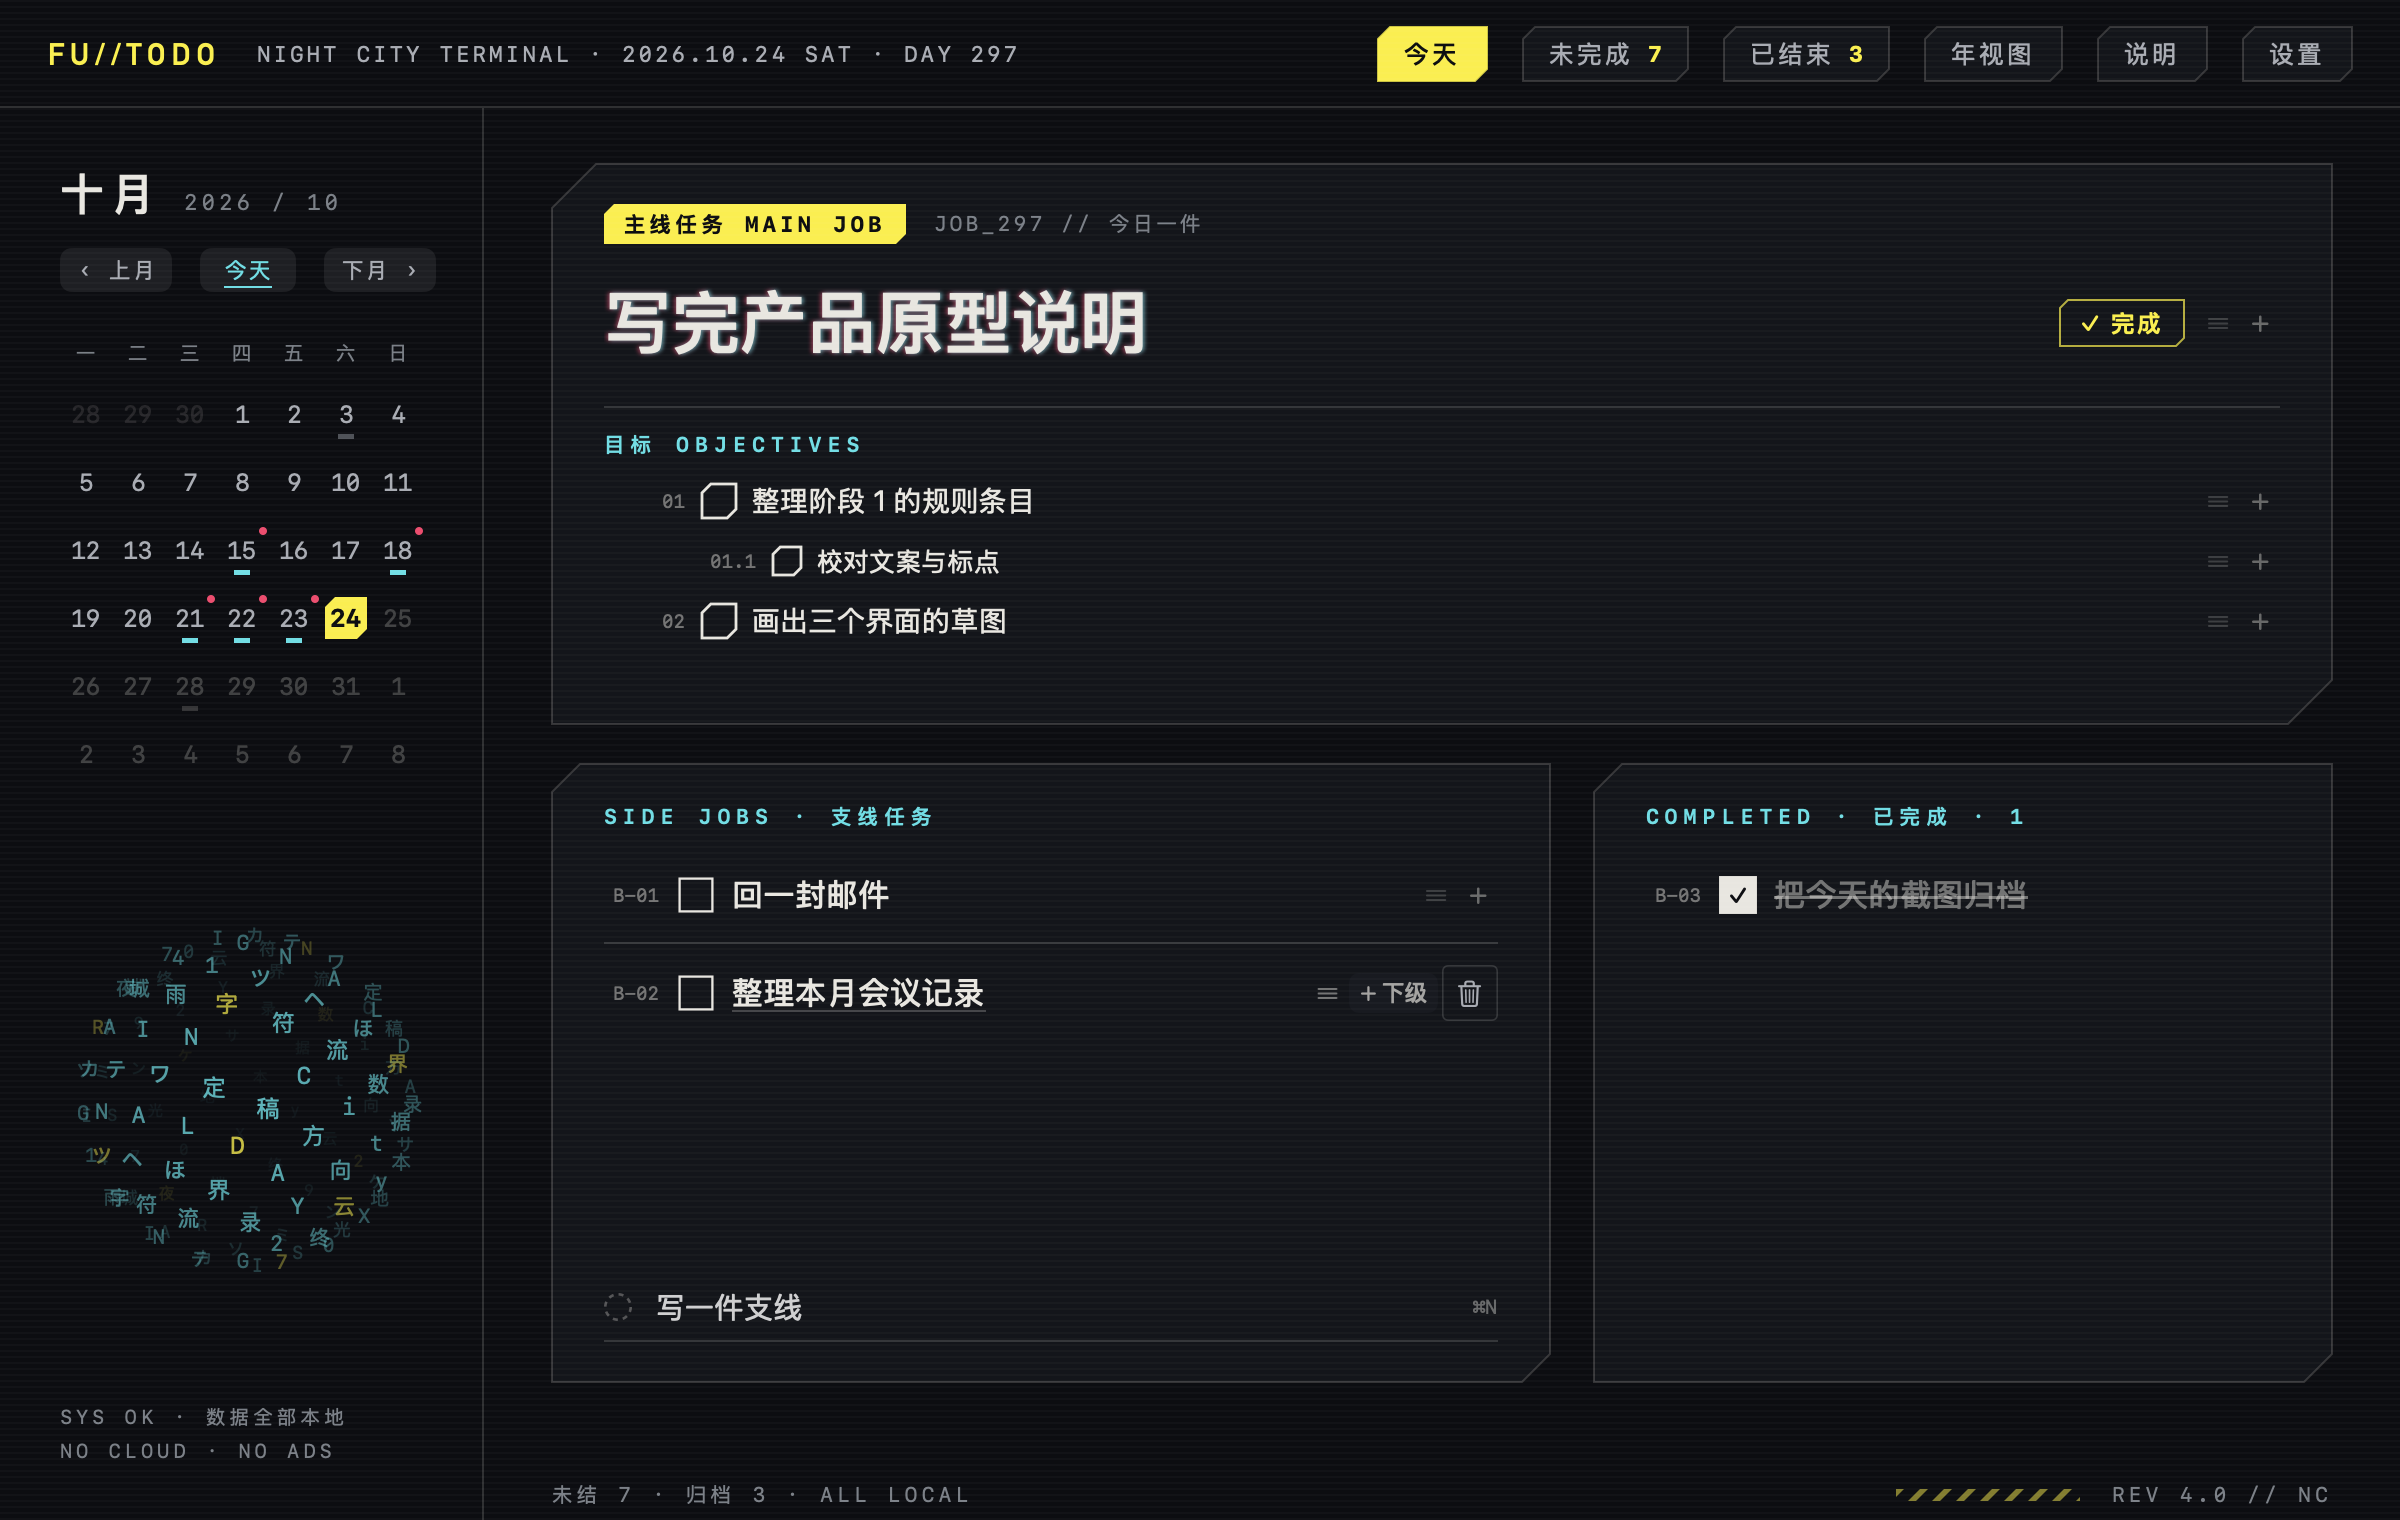
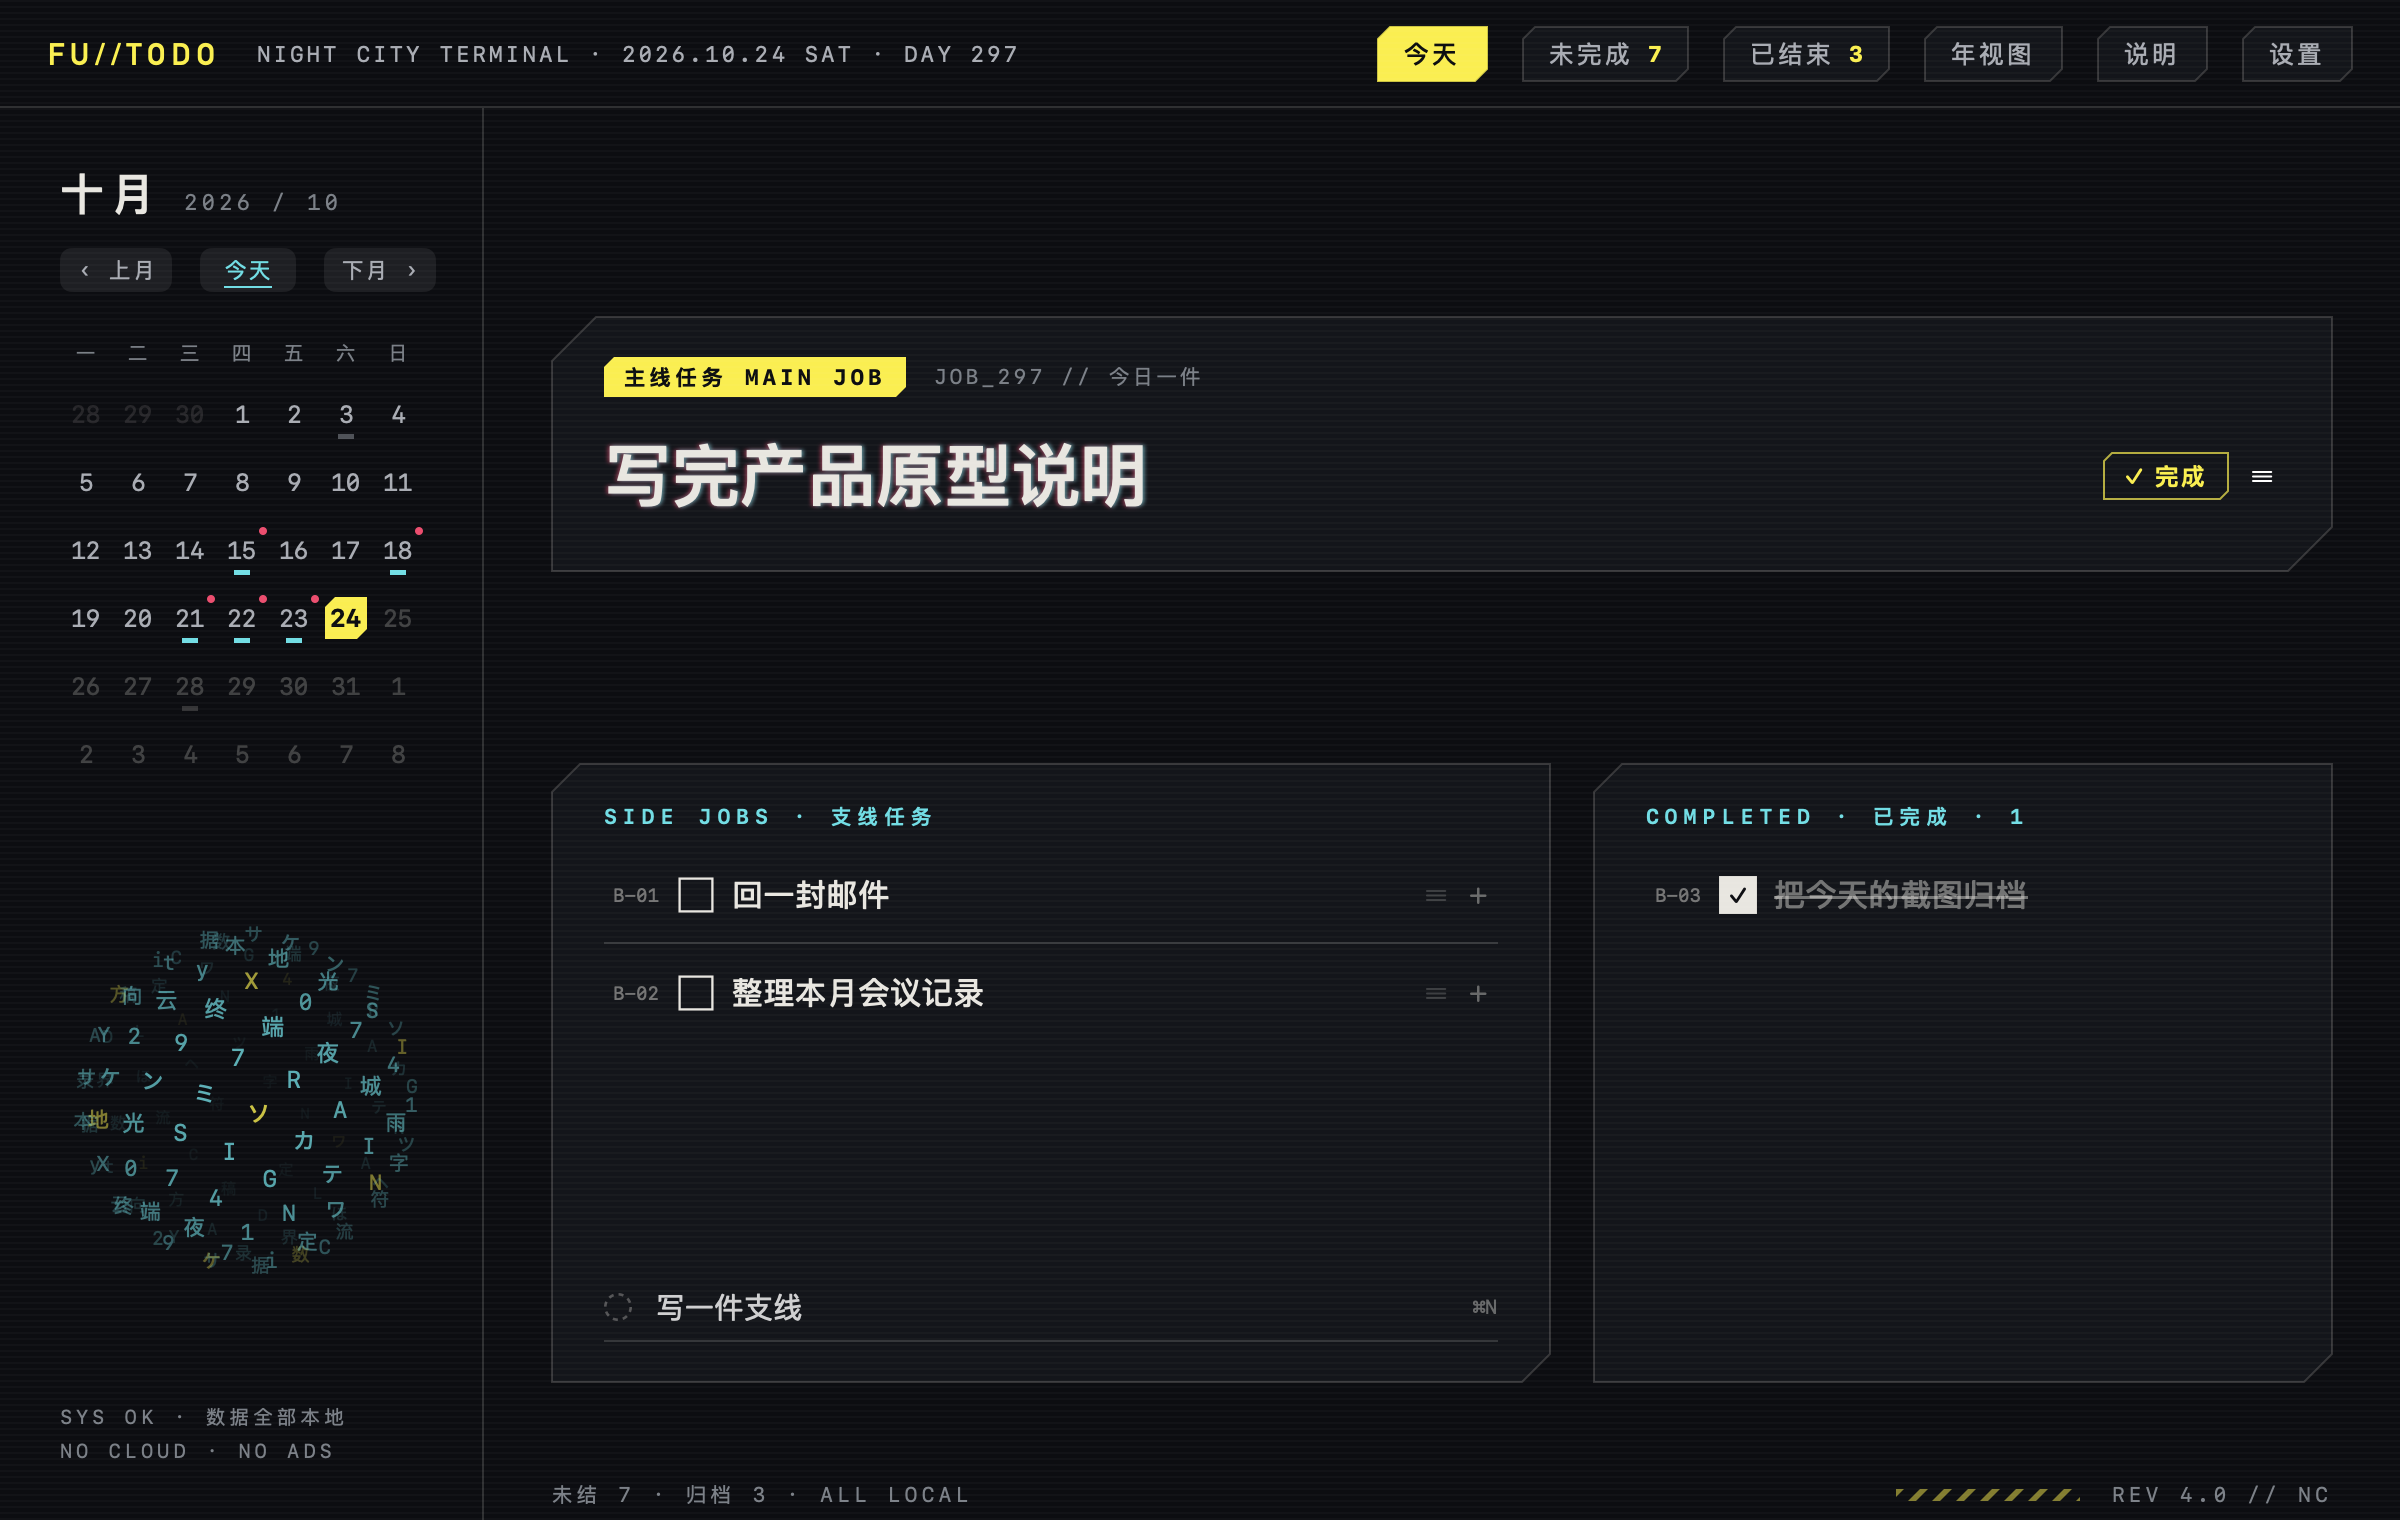
主线改为纯标题槽：面板去掉目标区（高度包住内容），主线行隐藏＋下级/兜底＋、拒绝拖拽嵌套进主线；省出的高度给支线/已完成面板；夜之城整页点空白收输入会话

diff --git a/app/Sources/UI/DayPageView.swift b/app/Sources/UI/DayPageView.swift
@@ -67,6 +67,10 @@ public struct DayPageView: View {
                 // 夜之城：整页固定视口（不滚动），滚动只发生在三个面板内部
                 nightLayout
                     .frame(maxHeight: .infinity, alignment: .top)
+                    .contentShape(Rectangle())
+                    .onTapGesture {
+                        if drag.draggingId == nil { session.finishByClickingAway(store: store) }
+                    }
             } else {
                 VStack(alignment: .leading, spacing: 0) {
                     header
@@ -351,8 +355,7 @@ public struct DayPageView: View {
                     text: $mainDraft,
                     placeholder: isToday ? "写下今天最重要的一件事" : "写下这一天最重要的事",
                     prominent: true,
-                    commit: { let m = store.addMain(mainDraft, on: day); mainDraft = "" },
-                    onTab: commitMainContinue
+                    commit: { let m = store.addMain(mainDraft, on: day); mainDraft = "" }
                 )
                 .padding(.top, 18)
                 if !roots.isEmpty {
@@ -368,8 +371,8 @@ public struct DayPageView: View {
 
     // MARK: 夜之城三面板
 
-    /// 主线任务面板（22pt 大切角）：黄标签 + JOB 码 + DIN 标题 + 目标列表。
-    /// 主线不配勾选框——完成用行尾的「完成」按钮；完成后留在面板里标「今日主线已完成」。
+    /// 主线任务面板（22pt 大切角）：只有标题槽——主线没有二级，
+    /// 二级只存在于支线与已完成面板。完成/退回走行尾按钮。
     @ViewBuilder
     private var nightMainPanel: some View {
         NightPanel(corner: 22) {
@@ -379,54 +382,37 @@ public struct DayPageView: View {
                 } else {
                     nightQuestHeader
                 }
-                ScrollView {
-                    VStack(alignment: .leading, spacing: 0) {
-                        if let goal = mainAny {
-                            draggableCard(goal, at: 0, in: [goal]) {
-                                VStack(alignment: .leading, spacing: 0) {
-                                    TaskRowView(
-                                        task: goal,
-                                        level: 1,
-                                        isMain: true,
-                                        showsRoleGlyph: false,
-                                        onCard: true,
-                                        showsFolio: false,
-                                        showsRing: false,
-                                        mainCompleteAction: goal.done ? nil : { store.complete(goal.id) },
-                                        mainRevertAction: goal.done ? { store.revert(goal.id) } : nil
-                                    )
-                                    .padding(.top, 10)
-                                    if !collapseCards {
-                                        // 主线下方的横线：把它衬成「这一天的主题」，而不是一条任务
-                                        Rectangle().fill(Theme.rule).frame(height: 1).padding(.top, 14)
-                                        objectivesLabel
-                                            .padding(.top, 12)
-                                        TaskSubtreeView(parentId: goal.id, level: 2, showsRails: false, showsRoleGlyph: false, onCard: true, showsFolio: true)
-                                    }
-                                }
-                            }
-                            rootDropZone
-                        } else {
-                            writingLine(
-                                text: $mainDraft,
-                                placeholder: isToday ? "写下今天最重要的一件事" : "写下这一天最重要的事",
-                                prominent: true,
-                                commit: { let m = store.addMain(mainDraft, on: day); mainDraft = "" },
-                                onTab: commitMainContinue
-                            )
-                            .padding(.top, 12)
-                            if !roots.isEmpty {
-                                Text("NO MAIN JOB · 今天还没有主线")
-                                    .font(Theme.mono(9))
-                                    .tracking(1.5)
-                                    .foregroundStyle(Theme.ink3)
-                                    .padding(.top, 10)
-                            }
-                        }
+                if let goal = mainAny {
+                    draggableCard(goal, at: 0, in: [goal]) {
+                        TaskRowView(
+                            task: goal,
+                            level: 1,
+                            isMain: true,
+                            showsRoleGlyph: false,
+                            onCard: true,
+                            showsFolio: false,
+                            showsRing: false,
+                            mainCompleteAction: goal.done ? nil : { store.complete(goal.id) },
+                            mainRevertAction: goal.done ? { store.revert(goal.id) } : nil
+                        )
+                        .padding(.top, 10)
                     }
-                    .frame(maxWidth: .infinity, alignment: .leading)
+                } else {
+                    writingLine(
+                        text: $mainDraft,
+                        placeholder: isToday ? "写下今天最重要的一件事" : "写下这一天最重要的事",
+                        prominent: true,
+                        commit: { let m = store.addMain(mainDraft, on: day); mainDraft = "" }
+                    )
+                    .padding(.top, 12)
+                    if !roots.isEmpty {
+                        Text("NO MAIN JOB · 今天还没有主线")
+                            .font(Theme.mono(9))
+                            .tracking(1.5)
+                            .foregroundStyle(Theme.ink3)
+                            .padding(.top, 10)
+                    }
                 }
-                .frame(maxHeight: .infinity)
             }
         }
     }
@@ -453,7 +439,7 @@ public struct DayPageView: View {
 
     /// 支线面板（14pt 切角）：菱形角色标 + 行间 hairline；固定高度，超出内部滚动。
     private var nightSidePanel: some View {
-        NightPanel(corner: 14) {
+        NightPanel(corner: 14, fillHeight: true) {
             VStack(alignment: .leading, spacing: 0) {
                 nightPanelLabel("SIDE JOBS · 支线任务", targeted: branchTargeted, hint: "拖到这里 = 作为支线")
                     .modifier(OptionalDropTarget(
@@ -521,7 +507,7 @@ public struct DayPageView: View {
 
     /// 已完成面板（窄列）：灰化 + 划线 + ✓；固定高度，超出内部滚动。
     private var nightDonePanel: some View {
-        NightPanel(corner: 14) {
+        NightPanel(corner: 14, fillHeight: true) {
             VStack(alignment: .leading, spacing: 0) {
                 nightPanelLabel("COMPLETED · 已完成 · \(nightFinished.count)")
                 ScrollView {
@@ -603,15 +589,6 @@ public struct DayPageView: View {
             action: { store.setMain($0) },
             enabled: { store.canBecomeMain($0.id, on: day) }
         ))
-    }
-
-    /// 夜之城：目标区的青色小标。
-    private var objectivesLabel: some View {
-        Text("目标 OBJECTIVES")
-            .font(Theme.mono(9.5, .semibold))
-            .tracking(3)
-            .foregroundStyle(Theme.signal)
-            .padding(.bottom, 6)
     }
 
     private var branchSection: some View {
@@ -928,15 +905,6 @@ public struct DayPageView: View {
                 .frame(height: 1)
         }
         .animation(reduceMotion ? nil : Motion.quick, value: active)
-    }
-
-    /// 提交主线并直接开始写它的第一步（Tab）。
-    private var commitMainContinue: () -> Void {
-        {
-            let m = store.addMain(mainDraft, on: day)
-            mainDraft = ""
-            if let m { session.startCreate(store: store, at: m.id, mode: .child) }
-        }
     }
 
     /// 回车：提交支线，刚创建的那条进入编辑态——

diff --git a/app/Sources/UI/TaskCards.swift b/app/Sources/UI/TaskCards.swift
@@ -61,10 +61,13 @@ public struct CutCornerShape: Shape {
 /// 夜之城的面板：切角容器（主线 22pt / 子面板 14pt），内容自带留白。
 public struct NightPanel<Content: View>: View {
     var corner: CGFloat
+    /// true = 纵向撑满所给空间（支线/已完成）；false = 包住内容（主线）
+    var fillHeight: Bool
     private let content: Content
 
-    public init(corner: CGFloat, @ViewBuilder content: () -> Content) {
+    public init(corner: CGFloat, fillHeight: Bool = false, @ViewBuilder content: () -> Content) {
         self.corner = corner
+        self.fillHeight = fillHeight
         self.content = content()
     }
 
@@ -72,7 +75,7 @@ public struct NightPanel<Content: View>: View {
         content
             .padding(.horizontal, 26)
             .padding(.vertical, 20)
-            .frame(maxWidth: .infinity, maxHeight: .infinity, alignment: .topLeading)
+            .frame(maxWidth: .infinity, maxHeight: fillHeight ? .infinity : nil, alignment: .topLeading)
             .background(Theme.cardBackground)
             .clipShape(CutCornerShape(radius: corner))
             .overlay(

diff --git a/app/Sources/UI/TaskRowView.swift b/app/Sources/UI/TaskRowView.swift
@@ -558,11 +558,13 @@ public struct TaskRowView: View {
                     if showsSiblingButton {
                         addButton("同级", mode: .sibling)
                     }
-                    addButton("下级", mode: .child)
+                    if !(isMain && level == 1) {
+                        addButton("下级", mode: .child)
+                    }
                     IconButton(systemName: "trash", help: "删除这件事") {
                         store.delete(task.id)
                     }
-                } else {
+                } else if !(isMain && level == 1) {
                     Button {
                         session.startCreate(store: store, at: task.id, mode: .child)
                     } label: {
